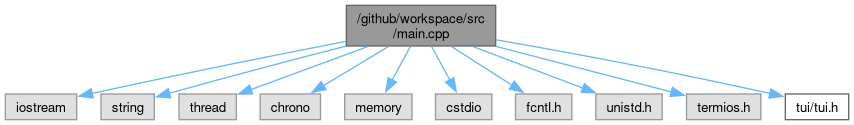
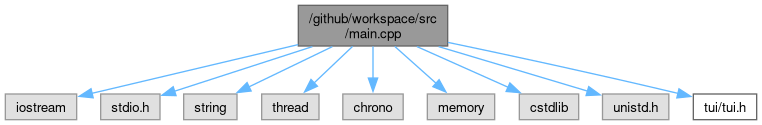
deploy: d5fb0fecde0f07074aca986855ebb5f5302095dc

Changed region(s): [[0.0, 0.024, 0.9961, 0.984], [0.4528, 0.24, 0.5433, 0.312]]

diff --git a/tui_8h_source.html b/tui_8h_source.html
@@ -125,7 +125,7 @@ $(document).ready(function() { init_codefold(0); });
 <div class="line"><a id="l00035" name="l00035"></a><span class="lineno">   35</span>}</div>
 </div>
 <div class="ttc" id="aclasstui_1_1key__handler_html"><div class="ttname"><a href="classtui_1_1key__handler.html">tui::key_handler</a></div><div class="ttdef"><b>Definition</b> tui.h:26</div></div>
-<div class="ttc" id="aclasstui_1_1key__handler_html_a8de7fc2ceeed568336f6d09a0c728008"><div class="ttname"><a href="classtui_1_1key__handler.html#a8de7fc2ceeed568336f6d09a0c728008">tui::key_handler::handle</a></div><div class="ttdeci">void handle()</div><div class="ttdef"><b>Definition</b> tui.cpp:18</div></div>
+<div class="ttc" id="aclasstui_1_1key__handler_html_a8de7fc2ceeed568336f6d09a0c728008"><div class="ttname"><a href="classtui_1_1key__handler.html#a8de7fc2ceeed568336f6d09a0c728008">tui::key_handler::handle</a></div><div class="ttdeci">void handle()</div><div class="ttdef"><b>Definition</b> tui.cpp:17</div></div>
 <div class="ttc" id="aclasstui_1_1key__handler_html_abfb3fd302e45639d67158a2ed832c522"><div class="ttname"><a href="classtui_1_1key__handler.html#abfb3fd302e45639d67158a2ed832c522">tui::key_handler::key_handler</a></div><div class="ttdeci">key_handler()</div><div class="ttdef"><b>Definition</b> tui.cpp:7</div></div>
 <div class="ttc" id="anamespacetui_html"><div class="ttname"><a href="namespacetui.html">tui</a></div><div class="ttdef"><b>Definition</b> tui.h:1</div></div>
 <div class="ttc" id="anamespacetui_html_a74aa53265d54835464fdbbd6e243267d"><div class="ttname"><a href="namespacetui.html#a74aa53265d54835464fdbbd6e243267d">tui::keys</a></div><div class="ttdeci">keys</div><div class="ttdef"><b>Definition</b> tui.h:2</div></div>
@@ -257,7 +257,7 @@ $(document).ready(function() { init_codefold(0); });
 <div class="ttc" id="anamespacetui_html_a74aa53265d54835464fdbbd6e243267dafc420c796137220f9c694b33425e4bba"><div class="ttname"><a href="namespacetui.html#a74aa53265d54835464fdbbd6e243267dafc420c796137220f9c694b33425e4bba">tui::KEY_NAK</a></div><div class="ttdeci">@ KEY_NAK</div><div class="ttdef"><b>Definition</b> tui.h:4</div></div>
 <div class="ttc" id="anamespacetui_html_a74aa53265d54835464fdbbd6e243267dafcfd32f625081ef7cfc9a019762c90d0"><div class="ttname"><a href="namespacetui.html#a74aa53265d54835464fdbbd6e243267dafcfd32f625081ef7cfc9a019762c90d0">tui::KEY_UPPERCASE_C</a></div><div class="ttdeci">@ KEY_UPPERCASE_C</div><div class="ttdef"><b>Definition</b> tui.h:9</div></div>
 <div class="ttc" id="anamespacetui_html_a74aa53265d54835464fdbbd6e243267daffffe674b415bc640f154a7c2389f343"><div class="ttname"><a href="namespacetui.html#a74aa53265d54835464fdbbd6e243267daffffe674b415bc640f154a7c2389f343">tui::KEY_LOWERCASE_B</a></div><div class="ttdeci">@ KEY_LOWERCASE_B</div><div class="ttdef"><b>Definition</b> tui.h:14</div></div>
-<div class="ttc" id="anamespacetui_html_a846e57585c414fa5f4a7d2a06c17b787"><div class="ttname"><a href="namespacetui.html#a846e57585c414fa5f4a7d2a06c17b787">tui::get_io</a></div><div class="ttdeci">io &amp; get_io()</div><div class="ttdef"><b>Definition</b> tui.cpp:26</div></div>
+<div class="ttc" id="anamespacetui_html_a846e57585c414fa5f4a7d2a06c17b787"><div class="ttname"><a href="namespacetui.html#a846e57585c414fa5f4a7d2a06c17b787">tui::get_io</a></div><div class="ttdeci">io &amp; get_io()</div><div class="ttdef"><b>Definition</b> tui.cpp:25</div></div>
 <div class="ttc" id="astructtui_1_1io_html"><div class="ttname"><a href="structtui_1_1io.html">tui::io</a></div><div class="ttdef"><b>Definition</b> tui.h:20</div></div>
 <div class="ttc" id="astructtui_1_1io_html_a708ac375cb9e95f8c7a00a8f2f95c97c"><div class="ttname"><a href="structtui_1_1io.html#a708ac375cb9e95f8c7a00a8f2f95c97c">tui::io::current_key</a></div><div class="ttdeci">keys current_key</div><div class="ttdef"><b>Definition</b> tui.h:21</div></div>
 </div><!-- fragment --></div><!-- contents -->

diff --git a/main_8cpp.html b/main_8cpp.html
@@ -79,41 +79,38 @@ $(function() {
 </div><!--header-->
 <div class="contents">
 <div class="textblock"><code>#include &lt;iostream&gt;</code><br />
+<code>#include &lt;stdio.h&gt;</code><br />
 <code>#include &lt;string&gt;</code><br />
 <code>#include &lt;thread&gt;</code><br />
 <code>#include &lt;chrono&gt;</code><br />
 <code>#include &lt;memory&gt;</code><br />
-<code>#include &lt;cstdio&gt;</code><br />
-<code>#include &lt;fcntl.h&gt;</code><br />
+<code>#include &lt;cstdlib&gt;</code><br />
 <code>#include &lt;unistd.h&gt;</code><br />
-<code>#include &lt;termios.h&gt;</code><br />
 <code>#include &quot;<a class="el" href="tui_8h_source.html">tui/tui.h</a>&quot;</code><br />
 </div><div class="textblock"><div class="dynheader">
 Include dependency graph for main.cpp:</div>
 <div class="dyncontent">
 <div class="center"><img src="main_8cpp__incl.png" border="0" usemap="#a_2github_2workspace_2src_2main_8cpp" alt=""/></div>
 <map name="a_2github_2workspace_2src_2main_8cpp" id="a_2github_2workspace_2src_2main_8cpp">
-<area shape="rect" title=" " alt="" coords="346,5,496,46"/>
+<area shape="rect" title=" " alt="" coords="298,5,448,46"/>
 <area shape="rect" title=" " alt="" coords="5,94,77,120"/>
-<area shape="poly" title=" " alt="" coords="346,44,92,96,91,91,345,39"/>
-<area shape="rect" title=" " alt="" coords="101,94,154,120"/>
-<area shape="poly" title=" " alt="" coords="347,49,170,96,169,91,345,43"/>
-<area shape="rect" title=" " alt="" coords="179,94,236,120"/>
-<area shape="poly" title=" " alt="" coords="369,49,252,92,250,87,367,44"/>
-<area shape="rect" title=" " alt="" coords="260,94,321,120"/>
-<area shape="poly" title=" " alt="" coords="390,49,325,88,322,83,387,44"/>
-<area shape="rect" title=" " alt="" coords="345,94,412,120"/>
-<area shape="poly" title=" " alt="" coords="413,48,395,81,390,79,408,45"/>
-<area shape="rect" title=" " alt="" coords="436,94,492,120"/>
-<area shape="poly" title=" " alt="" coords="434,45,452,79,447,81,429,48"/>
-<area shape="rect" title=" " alt="" coords="516,94,572,120"/>
-<area shape="poly" title=" " alt="" coords="453,44,514,83,511,88,450,49"/>
-<area shape="rect" title=" " alt="" coords="596,94,662,120"/>
-<area shape="poly" title=" " alt="" coords="474,44,584,86,582,91,472,49"/>
-<area shape="rect" title=" " alt="" coords="687,94,761,120"/>
-<area shape="poly" title=" " alt="" coords="497,44,672,89,671,95,496,49"/>
-<area shape="rect" href="tui_8h.html" title=" " alt="" coords="785,94,849,120"/>
-<area shape="poly" title=" " alt="" coords="497,37,621,60,771,91,770,96,620,65,496,42"/>
+<area shape="poly" title=" " alt="" coords="299,47,92,96,91,91,298,42"/>
+<area shape="rect" title=" " alt="" coords="101,94,160,120"/>
+<area shape="poly" title=" " alt="" coords="313,49,175,94,174,89,312,44"/>
+<area shape="rect" title=" " alt="" coords="184,94,237,120"/>
+<area shape="poly" title=" " alt="" coords="334,49,250,89,248,84,331,44"/>
+<area shape="rect" title=" " alt="" coords="262,94,319,120"/>
+<area shape="poly" title=" " alt="" coords="354,48,316,85,312,81,351,44"/>
+<area shape="rect" title=" " alt="" coords="343,94,403,120"/>
+<area shape="poly" title=" " alt="" coords="376,46,376,78,370,78,370,46"/>
+<area shape="rect" title=" " alt="" coords="427,94,495,120"/>
+<area shape="poly" title=" " alt="" coords="397,44,438,81,434,85,393,48"/>
+<area shape="rect" title=" " alt="" coords="519,94,579,120"/>
+<area shape="poly" title=" " alt="" coords="418,44,509,85,507,90,416,49"/>
+<area shape="rect" title=" " alt="" coords="603,94,669,120"/>
+<area shape="poly" title=" " alt="" coords="439,44,588,89,587,94,438,49"/>
+<area shape="rect" href="tui_8h.html" title=" " alt="" coords="693,94,757,120"/>
+<area shape="poly" title=" " alt="" coords="448,40,679,91,678,96,447,45"/>
 </map>
 </div>
 </div><table class="memberdecls">
